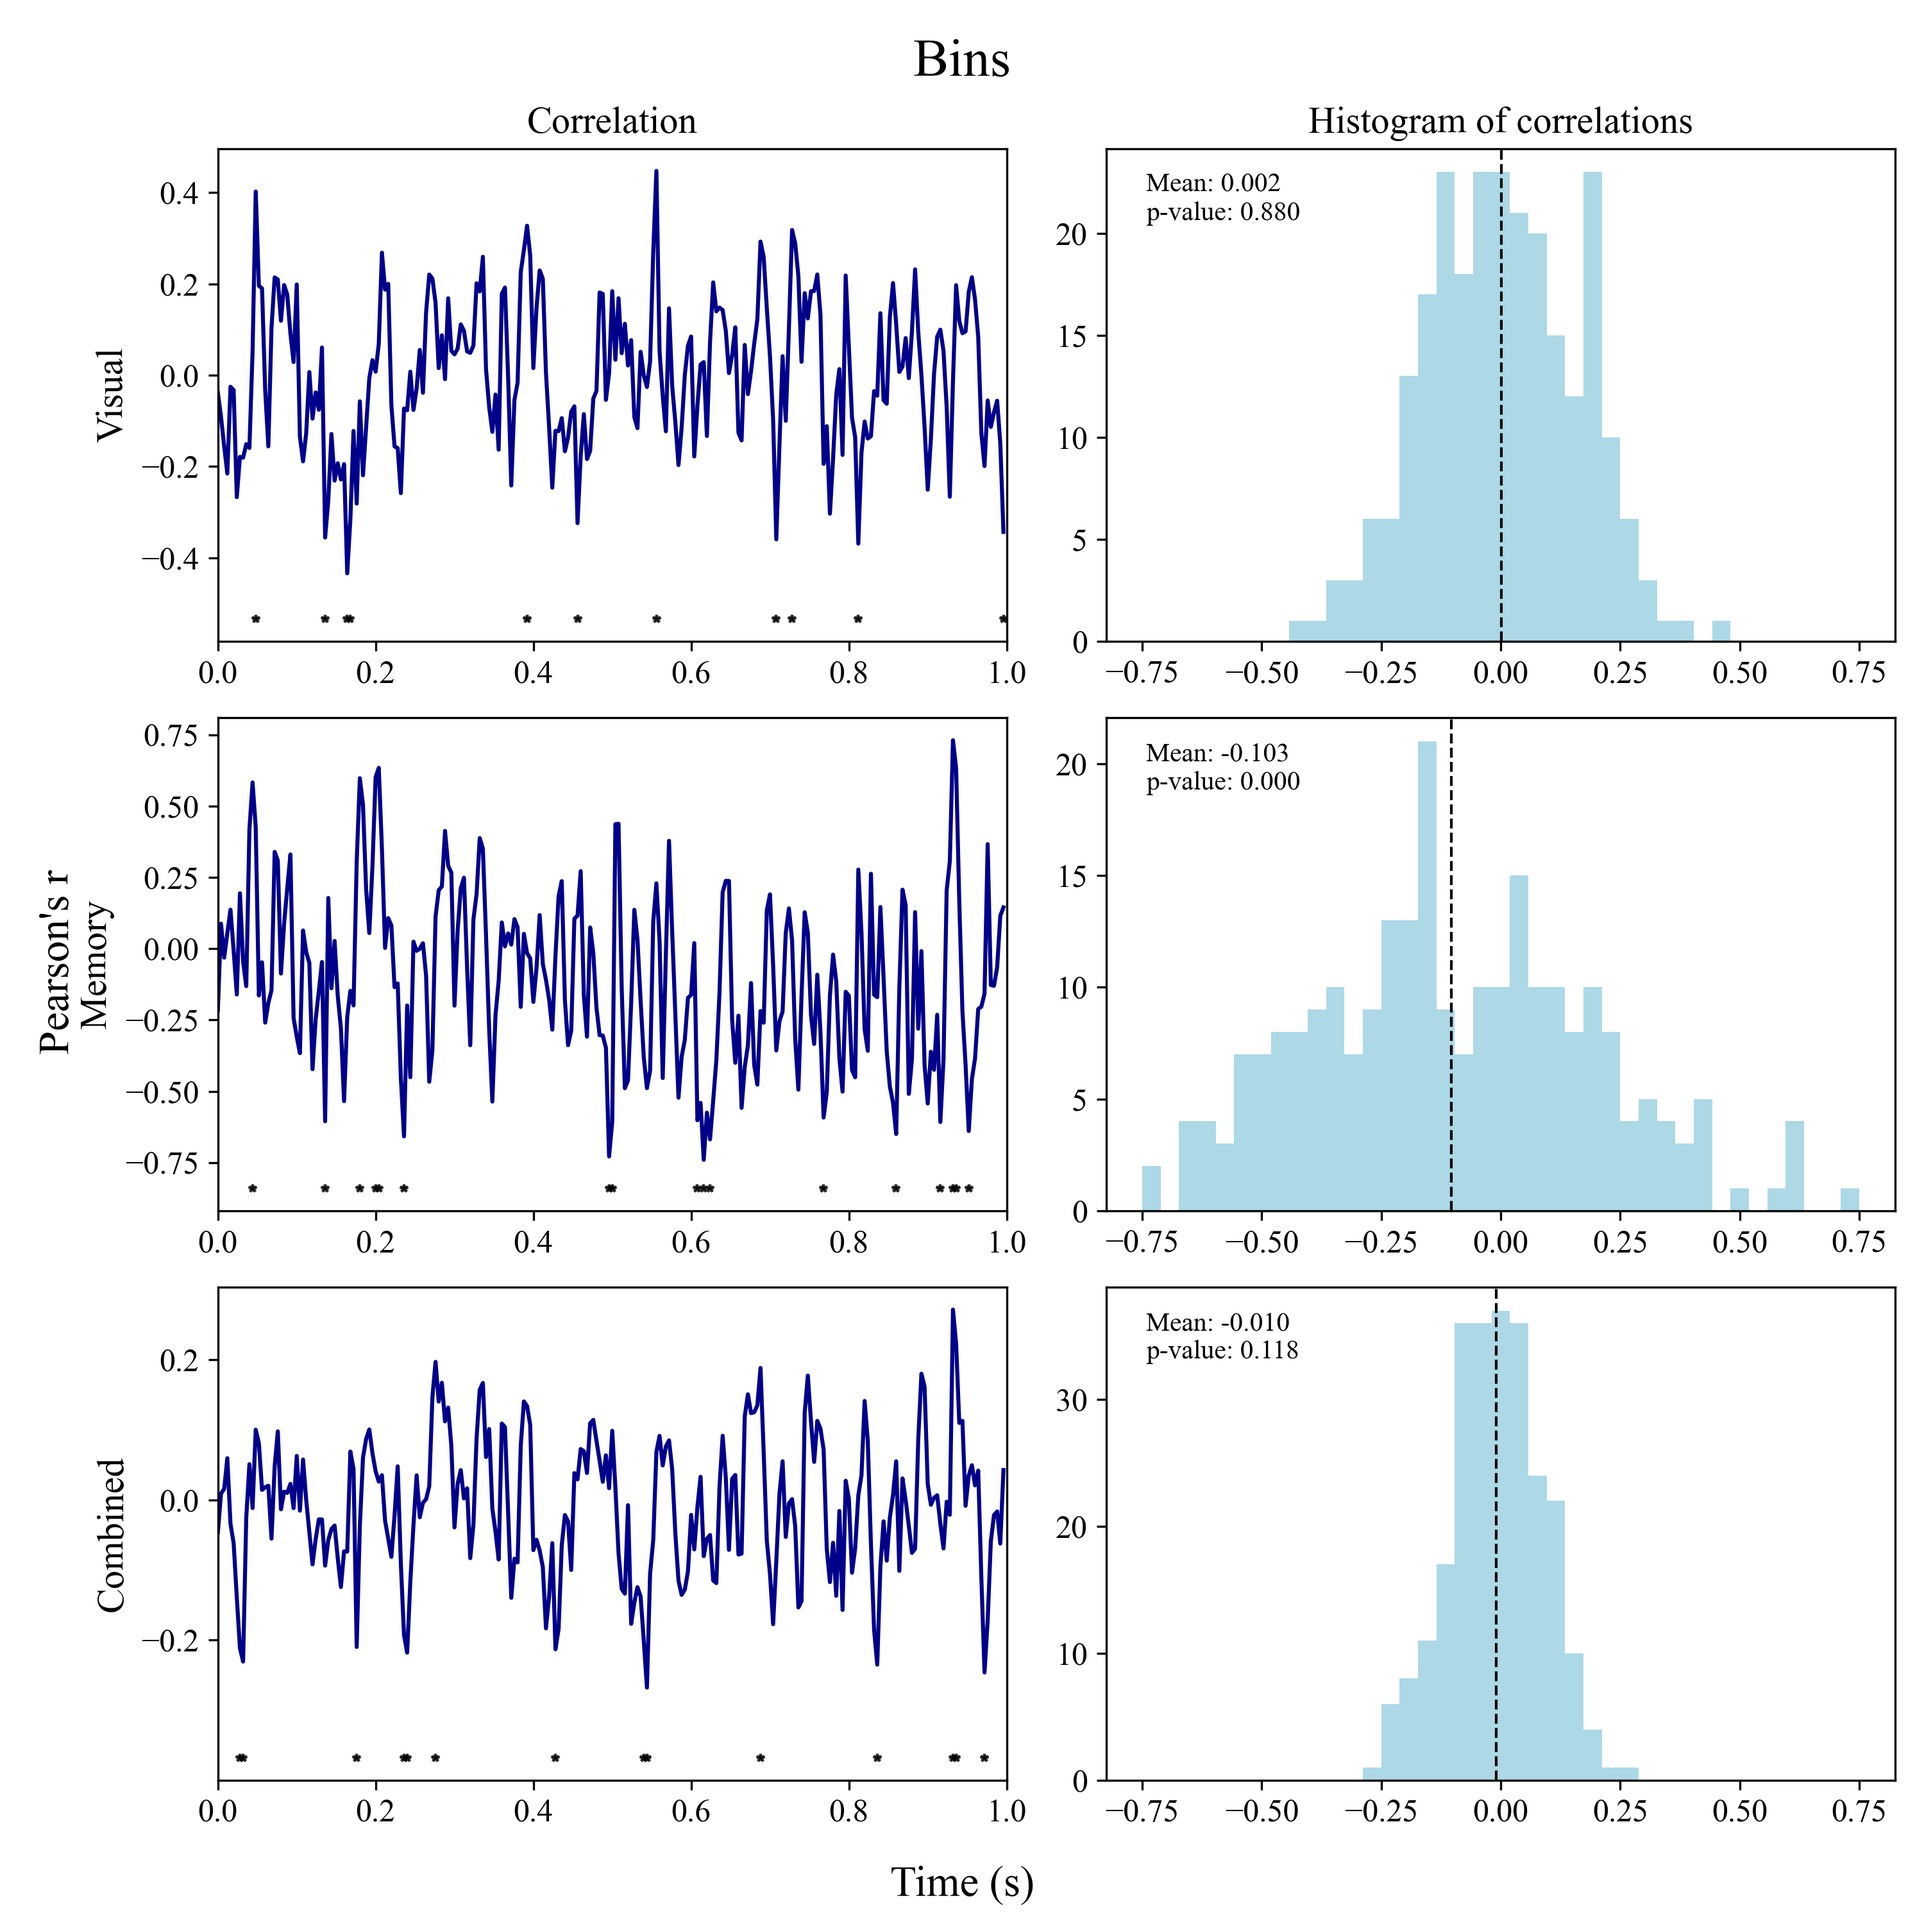
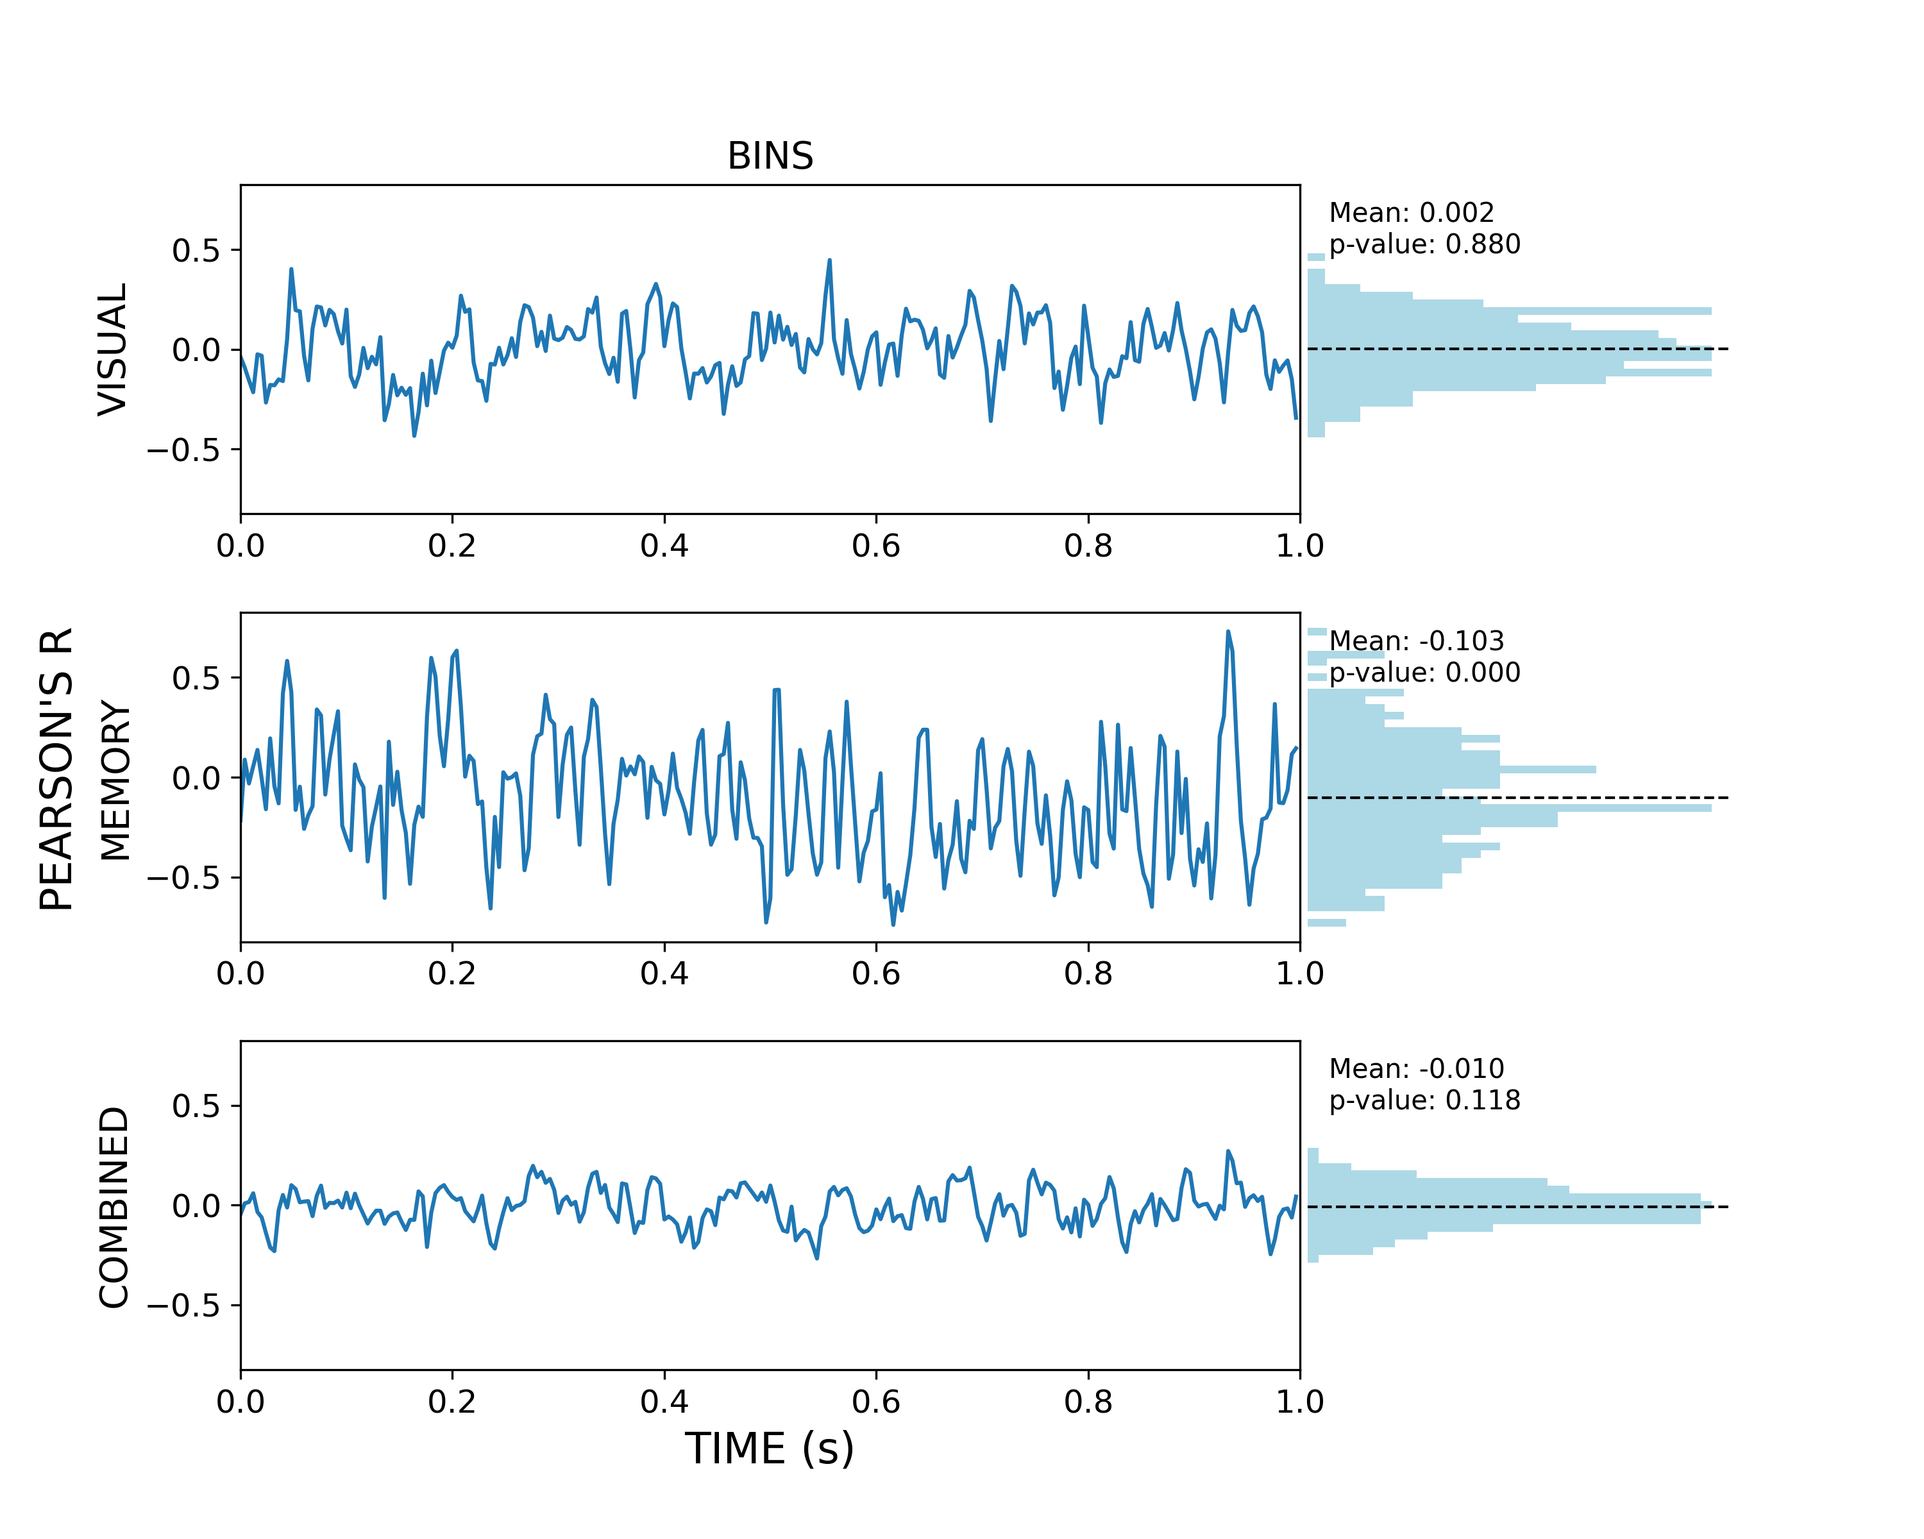
update plots

diff --git a/decoding/cross_decoding/plot_results.py b/decoding/cross_decoding/plot_results.py
@@ -226,112 +226,83 @@ def plot_diagonals(acc_dict, title = 'diagonals', save_path = None):
         plt.savefig(save_path)
 
 
-def cross_diags_per_sesh(accuracies, save_path = None):
-    diagonals = np.diagonal(accuracies, axis1=2, axis2=3)
-
-    condition = ["vis", "vis", "vis", "vis", "vis", "vis", "vis", "mem", "mem", "mem", "mem"]
-    
-    fig, axs = plt.subplots(4, 3, figsize = (25, 20), dpi = 300, sharex = True, sharey = True)
-
-    order = [0, 1, 2, 3, 7, 8, 9, 10, 4, 5, 6]
-
-    for i, ax in enumerate(axs.flatten()):
-
-        if ax != axs.flatten()[-1]: 
-            # title
-            ax.set_title(f'Training on session {i+1}')
-            
-            # plot the diagonal
-            for j in range(11):
-                # determine line type
-                line_style = determine_linestyle(condition[i], condition[j])
-
-                # determine colour (depending on how far away the train sesh and test sesh are)
-                col = determine_colour(order[i], order[j])
-                    
-                ax.plot(diagonals[order[i], order[j]], color = col, alpha = 1, linewidth = 1)
-
-        # legend in last ax
-        else:
-            ax.axis('off')
-            # add info to the legend
-            for j in range(11):
-                # determine colour (depending on how far away the train sesh and test sesh are)
-                col = determine_colour(0, j)
-                ax.plot([], [], color = col, alpha = 1,  linewidth = 1, label = f'{j}')
-            
-            ax.legend(title = 'Distance between training and test session',  ncol=len(condition), loc = 'center', bbox_to_anchor = (0.5, 0.5))
-        
-        x_axis_seconds(ax)
-    # add labels
-    fig.supylabel('Accuracy (%)')
-    fig.supxlabel('Samples')
-
-    plt.tight_layout()
-    if save_path:
-        plt.savefig(save_path)
-
-def cross_diags_average_sesh(accuracies, SE=False, save_path=None, title=""):
+def cross_diags_average_sesh(accuracies, SE=False, save_path=None, title=None):
     diagonals = np.diagonal(accuracies, axis1=2, axis2=3)
 
     # multiply by 100 to get percentages
     diagonals = diagonals * 100
 
-    # create 11 by 11 matrix with distances between sessions
-    # empty matrix
-    distances = np.zeros((11, 11))
+    
 
     order = [0, 1, 2, 3, 7, 8, 9, 10, 4, 5, 6]
-    # fill in the matrix
-    for i in range(11):
-        for j in range(11):
-            distances[i, j] = abs(order[i]-order[j])
-    
-    fig, ax = plt.subplots(1, 1, figsize = (15, 10), dpi = 300)
 
-    # loop over all distances
-    for dist in range(11):
-        # skip distance 0
-        if dist == 0:
-            pass
-        else:
-            # get the indices of the sessions that are dist away from each other
-            indices = np.argwhere(distances == dist)
+    vis_inds = [0, 1, 2, 3, 7, 8, 9, 10]
+    mem_inds = [4, 5, 6, 7]
 
-            # get the average accuracy for each pair of sessions that are dist away from each other
-            tmp = np.array([diagonals[i, j] for i, j in indices])
-            n_pairs = tmp.shape[0]
+    fig, ax = plt.subplots(3, 1, figsize = (12, 14), dpi = 300)
 
-            # standard deviation
+    for ax_ind, cond in enumerate([vis_inds, mem_inds, None]):
+        # create 11 by 11 matrix with distances between sessions
+        # empty matrix
+        distances = np.zeros((11, 11))
 
-            tmp_acc = tmp.mean(axis = 0)
-
-            colour = determine_colour(12, dist)
+        # fill in the matrix
+        for i in range(11):
+            for j in range(11):
+                distances[i, j] = abs(order[i]-order[j])
             
-            # plot tmp acc
-            ax.plot(tmp_acc, label = f'{dist} ({n_pairs} pairs)', linewidth = 1, color = colour)
-            
-            if SE: 
+        if cond:
+            distances = distances[cond, :][:, cond]
+        
+        # loop over all distances
+        for dist in range(11):
+            # skip distance 0
+            if dist == 0:
+                pass
+            else:
+                # get the indices of the sessions that are dist away from each other
+                indices = np.argwhere(distances == dist)
+
+                if indices.shape[0] == 0:
+                    continue
+
+                # get the average accuracy for each pair of sessions that are dist away from each other
+                tmp = np.array([diagonals[i, j] for i, j in indices])
+                n_pairs = tmp.shape[0]
+
                 # standard deviation
-                tmp_std = tmp.std(axis = 0)
-                
-                # standard error
-                tmp_std = tmp_std / np.sqrt(tmp.shape[0])
 
-                # plot standard error
-                ax.fill_between(np.arange(0, 250), (tmp_acc - tmp_std), (tmp_acc + tmp_std), alpha = 0.1, color =colour)
-            
+                tmp_acc = tmp.mean(axis = 0)
+
+                colour = determine_colour(12, dist)
+                
+                # plot tmp acc
+                ax[ax_ind].plot(tmp_acc, label = f'{dist} ({n_pairs} pairs)', linewidth = 1, color = colour)
+                
+                if SE: 
+                    # standard deviation
+                    tmp_std = tmp.std(axis = 0)
+                    
+                    # standard error
+                    tmp_std = tmp_std / np.sqrt(tmp.shape[0])
+
+                    # plot standard error
+                    ax[ax_ind].fill_between(np.arange(0, 250), (tmp_acc - tmp_std), (tmp_acc + tmp_std), alpha = 0.1, color =colour)
+                
             # plot legend
-            ax.legend(loc = 'upper right', title = "Distance")
-            
+            ax[ax_ind].legend(loc = 'upper right', title = "Distance")
+            ax[ax_ind].set_ylabel(['Visual', 'Memory', 'Combined'][ax_ind].upper())
+                
             # set x axis to seconds
-            x_axis_seconds(ax)
+            x_axis_seconds(ax[ax_ind])
 
 
     # add title and labels
-    fig.suptitle(title, fontsize = 25)
-    fig.supylabel('Accuracy (%)')
-    fig.supxlabel('Time (s)')
+    if title:
+        fig.suptitle(title.upper())
+
+    fig.supylabel('Average cross-decoding accuracy (%)'.upper())
+    fig.supxlabel('Time (s)'.upper())
     
     plt.tight_layout()
 
@@ -342,7 +313,7 @@ def main_plot_generator():
     accuracies_cross = {} # not including testing and training on the same session
     accuracies = {} # including testing and training on the same session
 
-    for parc in ["sens", "HCPMMP1"]: #['aparc','aparc.DKTatlas', 'aparc.a2009s', 'sens', 'HCPMMP1']:
+    for parc in ["sens"]:#, "HCPMMP1"]: #['aparc','aparc.DKTatlas', 'aparc.a2009s', 'sens', 'HCPMMP1']:
         
         # read in results
         accuracies[parc] = np.load(os.path.join('accuracies', f'cross_decoding_10_LDA_{parc}.npy'), allow_pickle=True)
@@ -350,10 +321,8 @@ def main_plot_generator():
         # plot all pairs of sessions in one figure
         #plot_cross_decoding_matrix(accuracies[parc], save_path = os.path.join('plots', f'cross_decoding_{parc}_matrix.png'))
 
-        # plot diagonals per session
-        #cross_diags_per_sesh(accuracies[parc], save_path = os.path.join('plots', f'cross_decoding_{parc}_diagonals.png'))
         # average over all sessions
-        #cross_diags_average_sesh(accuracies[parc], save_path = os.path.join('plots', f'cross_decoding_{parc}_diagonals_average.png'), title = 'Average cross-decoding accuracies given distance between sessions')
+        cross_diags_average_sesh(accuracies[parc], save_path = os.path.join('plots', f'cross_decoding_{parc}_diagonals_average.png'))
 
         # set within session accuracies to nan
         acc1 = accuracies[parc].copy()
@@ -362,16 +331,16 @@ def main_plot_generator():
         accuracies_cross[parc] = acc1
 
         # plot average over all conditions and all cross-session pairs
-        #plt = plot.plot_tgm_fig(np.nanmean(acc1, axis=(0, 1)), vmin=40, vmax=60, chance_level=chance_level(588*11, alpha = alpha, p = 0.5))
-        #plt.savefig(os.path.join('plots', f'cross_decoding_{parc}_average.png'))
+        plt = plot.plot_tgm_fig(np.nanmean(acc1, axis=(0, 1)), vmin=40, vmax=60, chance_level=chance_level(588*11, alpha = alpha, p = 0.5))
+        plt.savefig(os.path.join('plots', f'cross_decoding_{parc}_average.png'))
 
         # plot averaged according to conditions and using cross-session pairs
         plot_train_test_condition(acc1, parc, diff_colour='red')
 
 
     # Diagonals of the parcellations together
-    plot_diagonals(accuracies_cross, title = 'Diagonals across sessions', save_path = os.path.join('plots', f'diagonals_across.png'))
-    plot_diagonals(accuracies, title = 'Diagonals within session', save_path = os.path.join('plots', f'diagonals_within.png'), )
+    #plot_diagonals(accuracies_cross, title = 'Diagonals across sessions', save_path = os.path.join('plots', f'diagonals_across.png'))
+    #plot_diagonals(accuracies, title = 'Diagonals within session', save_path = os.path.join('plots', f'diagonals_within.png'), )
 
 
 

diff --git a/decoding/cross_bins/dist_acc_corr.py b/decoding/cross_bins/dist_acc_corr.py
@@ -1,7 +1,5 @@
 """
-This script investigates the correlation between the decoding accuracies and the distance between the sessions.
-- The distances are defined both as days and as the number of sessions.
-- The accuracies are calculated for the visual and the memory sessions separately, as well as for the combined sessions.
+
 """
 
 import numpy as np
@@ -16,7 +14,7 @@ from scipy.stats import pearsonr
 from scipy.stats import ttest_1samp
 
 # set parameters for all plots
-plt.rcParams['font.family'] = 'Serif'
+plt.rcParams['font.family'] = 'sans-serif'
 plt.rcParams['image.cmap'] = 'RdBu_r'
 plt.rcParams['image.interpolation'] = 'bilinear'
 plt.rcParams['axes.labelsize'] = 14
@@ -27,7 +25,6 @@ plt.rcParams['legend.fontsize'] = 10
 plt.rcParams['legend.title_fontsize'] = 12
 plt.rcParams['figure.titlesize'] = 14
 plt.rcParams['figure.dpi'] = 300
-
 
 def x_axis_seconds(ax):
     """
@@ -96,8 +93,8 @@ def plot_corr(ax, corr, pval):
     ax.set_xlim([0, 250])
 
 
-def plot_correlations(acc, save_path = None):
-    
+def plot_corr_hist(acc, save_path = None):
+           
     # only memory
     mem_indices = [4, 5, 6, 7]
     mem_acc = acc[mem_indices, :, :, :][:, mem_indices, :, :]
@@ -109,13 +106,18 @@ def plot_correlations(acc, save_path = None):
     # order of sessions
     order = [0, 1, 2, 3, 7, 8, 9, 10, 4, 5, 6] 
 
-    bin_range = (-0.75, 0.75)
-    bins = np.linspace(bin_range[0], bin_range[1], 40)
+    # set up figure
+    gs_kw = dict(width_ratios=[1, 0.4], height_ratios=[1, 1, 1], wspace=0.01, hspace=0.3)
+    fig, axes = plt.subplots(3, 2, figsize=(10, 8), dpi=300, gridspec_kw=gs_kw, sharey=True)
 
-    fig, axes = plt.subplots(3, 2, figsize=(10, 10), dpi=300)
+    bin_range = (-0.75, 0.75)
+
+    bins = np.linspace(bin_range[0], bin_range[1], 40)
 
     for i, (acc, inds) in enumerate(zip([vis_acc, mem_acc, acc], [vis_indices, mem_indices, None])):
         dist = get_distance_matrix(order)
+        ax_hist = axes[i, 1]
+        ax_corr = axes[i, 0]
 
         # use indices for visual and memory, not for combined
         if inds is not None:
@@ -127,40 +129,44 @@ def plot_correlations(acc, save_path = None):
         # get correlation and p-values
         corr, pval = get_corr_pval(X, y)
 
-        # plot
-        plot_corr(axes[i, 0], corr, pval)
-
+        # test if mean of correlations is significantly different from 0
         t, p = ttest_1samp(corr, 0)
         print(f"Mean correlation: {np.mean(corr):.3f}, p-value: {p:.3f}")
 
-
+        # plot correlation
+        ax_corr.plot(corr) 
+            
+        # seconds on x axis
+        x_axis_seconds(ax_corr)
+            
+        # set limits
+        ax_corr.set_xlim([0, 250])
+        
         # plot histogram of correlations
-        axes[i, 1].hist(corr, bins = bins, color="lightblue")
-
-        # add mean correlation and p-value
-        axes[i, 1].text(0.05, 0.95, f"Mean: {np.mean(corr):.3f}\np-value: {p:.3f}", transform=axes[i, 1].transAxes, verticalalignment='top', horizontalalignment='left', fontsize=10)
+        ax_hist.hist(corr, bins = bins, color="lightblue", orientation="horizontal")
+        ax_hist.set_axis_off()
 
         # vertical line at mean
-        axes[i, 1].axvline(np.mean(corr), color="k", linewidth=1, linestyle="--", label="Mean")
+        ax_hist.axhline(np.mean(corr), color="k", linewidth=1, linestyle="--", label="Mean")
 
-    fig.supxlabel("Time (s)", fontsize=16)
-    fig.supylabel("Pearson's r", fontsize=16)
-    fig.suptitle("Bins", fontsize=20)
+        # add mean correlation and p-value
+        ax_hist.text(0.05, 0.95, f"Mean: {np.mean(corr):.3f}\np-value: {p:.3f}", transform=ax_hist.transAxes, verticalalignment='top', horizontalalignment='left', fontsize=10)
+            
+
+    axes[2, 0].set_xlabel("TIME (s)", fontsize=16)
+    fig.supylabel("PEARSON'S R", fontsize=16)
+
     
-    # first column y label
-    axes[0, 0].set_ylabel("Visual")
-    axes[1, 0].set_ylabel("Memory")
-    axes[2, 0].set_ylabel("Combined")
+    axes[0, 0].set_ylabel("Visual".upper())
+    axes[1, 0].set_ylabel("Memory".upper())
+    axes[2, 0].set_ylabel("Combined".upper())
+    
 
-    # first row x label
-    axes[0, 0].set_title("Correlation")
-    axes[0, 1].set_title("Histogram of correlations")
+    # share title between columns
+    axes[0, 0].set_title("bins".upper())
 
-
-    plt.tight_layout()
     if save_path is not None:
         plt.savefig(save_path )
-
 
 def main():
     path = Path(__file__)
@@ -170,7 +176,7 @@ def main():
     plot_path = path.parents[0] / "plots" 
 
     # plot
-    plot_correlations(acc, save_path=plot_path / "corr_acc_dist.png")
+    plot_corr_hist(acc, save_path=plot_path / "corr_acc_dist.png")
 
         
 
